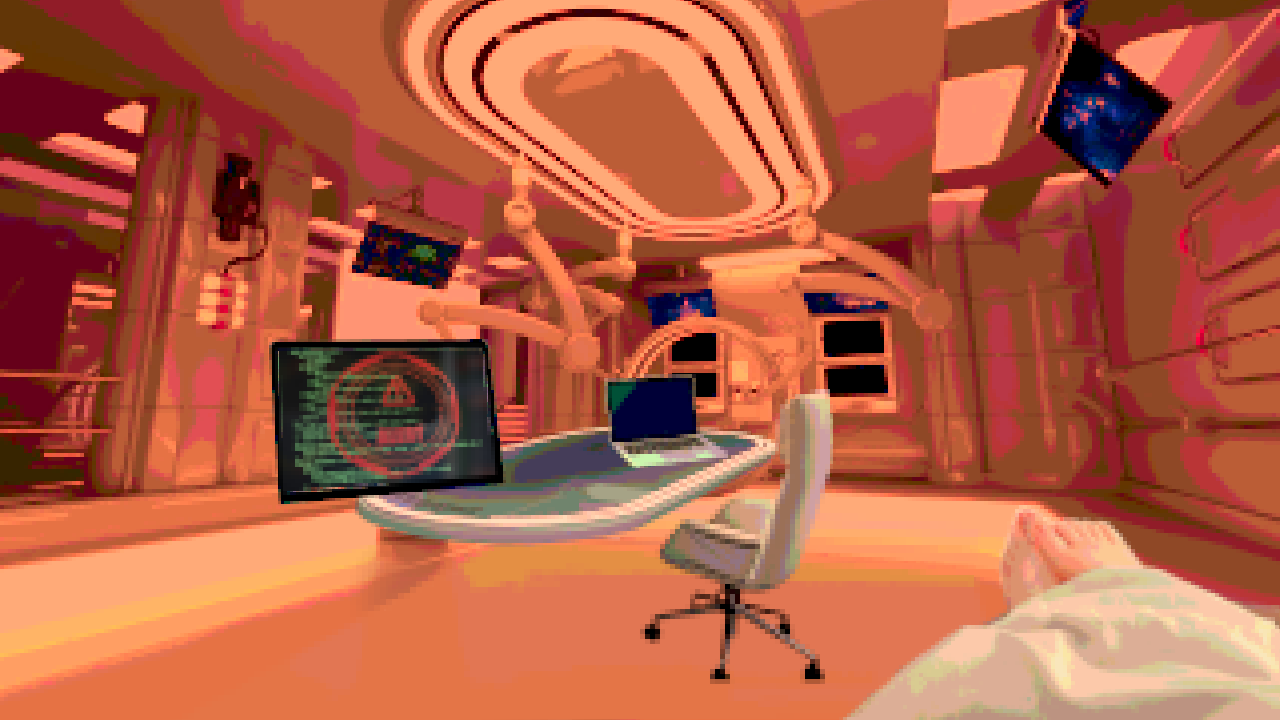
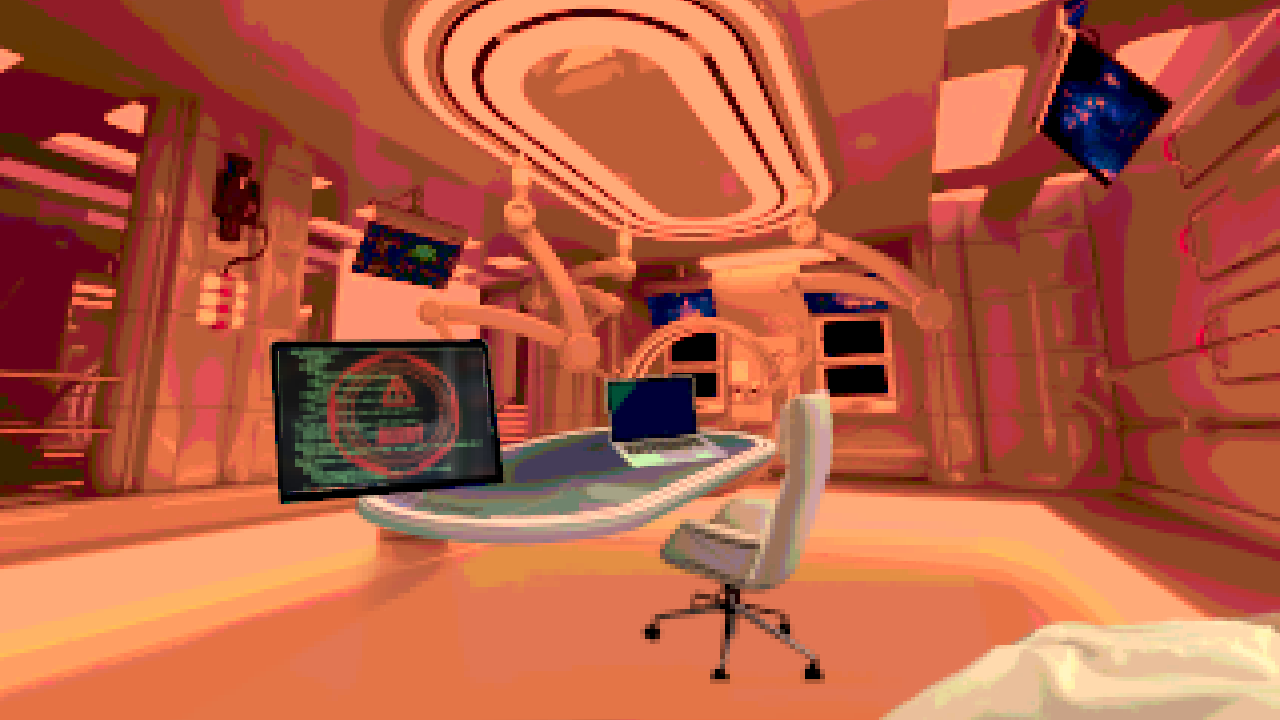
feat: add get-up action and sound to bedroom intro

Changed region(s): [[0.6562, 0.7028, 1.0, 1.0]]

diff --git a/Scripts/Core/Main.cs b/Scripts/Core/Main.cs
@@ -31,6 +31,7 @@ public partial class Main : Control
 	private Label menuTitle;
 	private Label speakerLabel;
 	private TextureRect backgroundImage;
+	private AudioStreamPlayer getUpSFX;
 	private AudioStreamPlayer normalAnnouncement;
 	private AudioStreamPlayer alarmAnnouncement;
 	private AudioStreamPlayer doorSFX;
@@ -298,6 +299,10 @@ public partial class Main : Control
 
 		UpdateLocation();
 
+		getUpSFX = GetNode<AudioStreamPlayer>(
+			"GetUpSFX"
+		);
+
 		alarmAnnouncement = GetNode<AudioStreamPlayer>(
 			"AlarmAnnouncement"
 		);
@@ -409,7 +414,17 @@ public partial class Main : Control
 				)
 				{
 					location.dialoguePlayed = true;
-					UpdateActionButtons();
+
+					if (currentLocation == "bedroom")
+					{
+						choiceButton1.Text = "Get Up";
+						choiceButton1.Visible = true;
+						choiceButton2.Visible = false;
+					}
+					else
+					{
+						UpdateActionButtons();
+					}
 				}
 			}
 			else
@@ -477,6 +492,23 @@ public partial class Main : Control
 	{
 		InspectableData currentInspectable =
 			interactionController.GetCurrentInspectable();
+
+		if (
+			currentLocation == "bedroom" &&
+			currentInspectable == null
+		)
+		{
+			choiceButton1.Visible = false;
+
+			getUpSFX.Play();
+
+			backgroundImage.Texture =
+				ResourceLoader.Load<Texture2D>(
+					"res://Assets/Backgrounds/bedroom-getup.png"
+				);
+
+			return;
+		}
 
 		if (
 			currentInspectable != null &&
